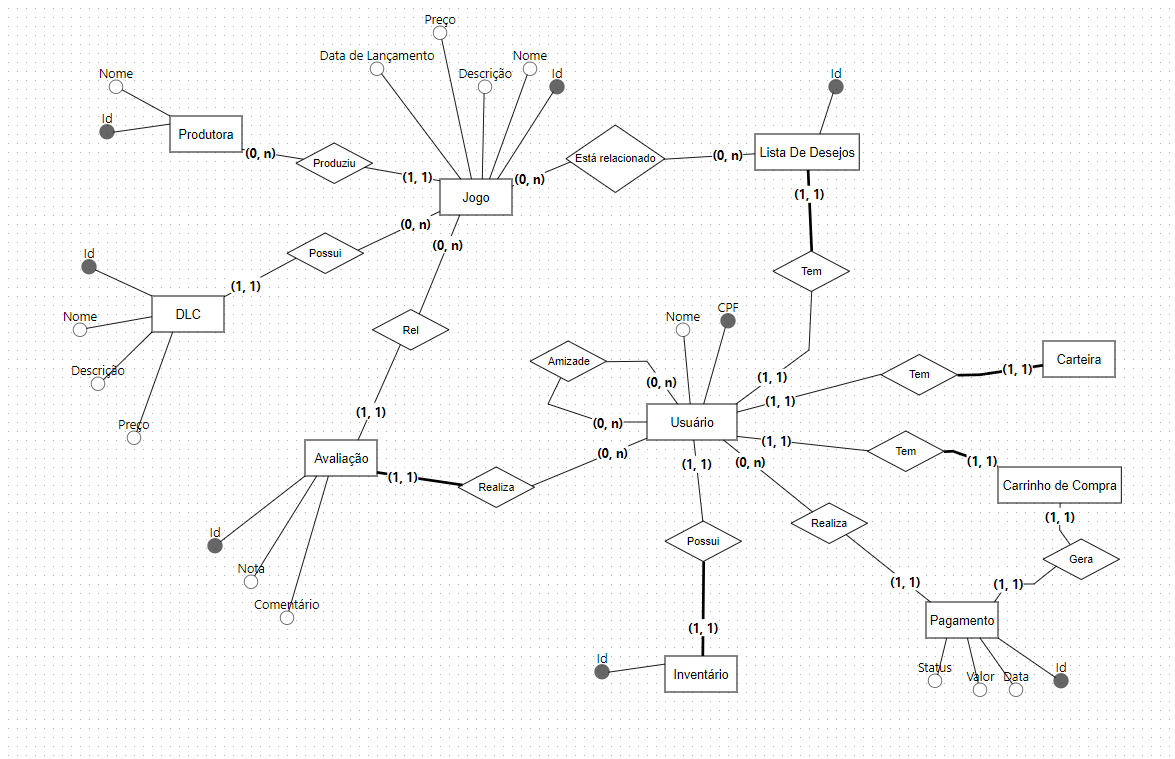
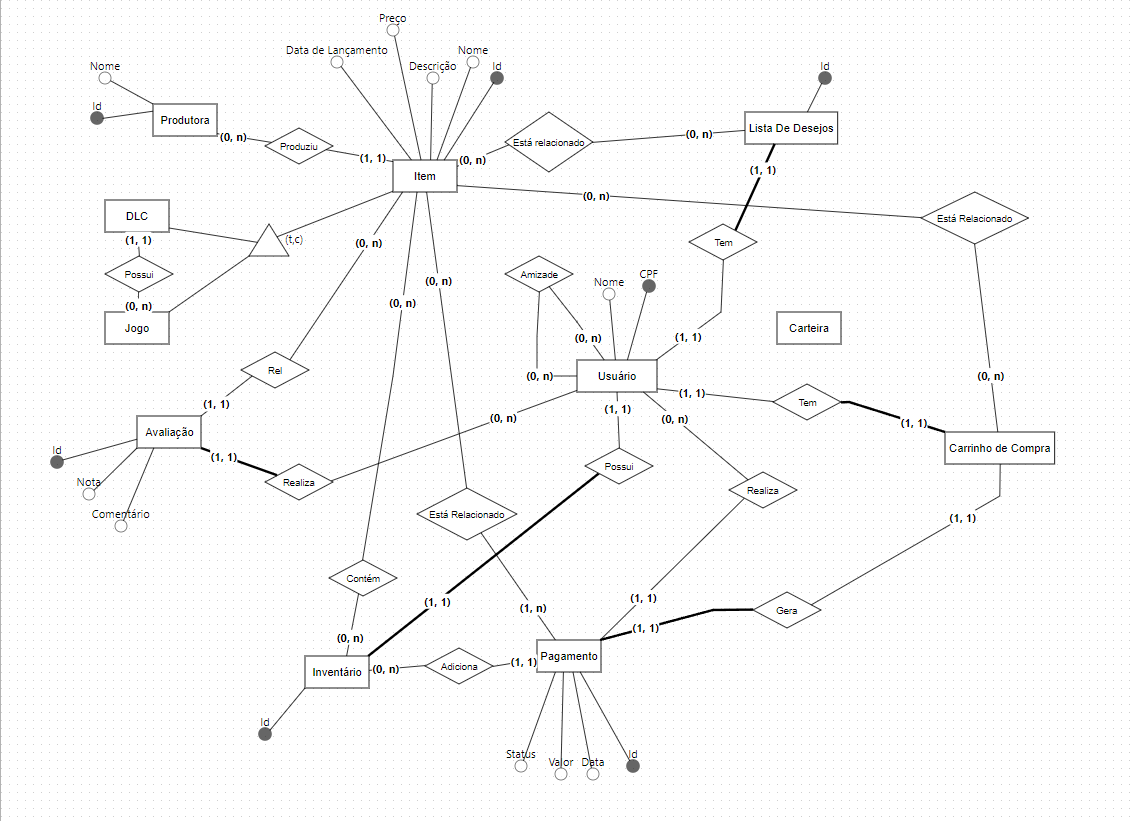
Atualização do MER

diff --git a/MER/MER.md b/MER/MER.md
@@ -1,46 +1,82 @@
-# MER
-Modelagem Entidade Relacionamento é uma forma conceitual de se modelar entidades e relacionamentos do mundo real para futura modelagem em banco de dados. O modelo aqui feito foi utilizando a ferramenta [BRModelo](https://app.brmodeloweb.com/#!/main)
+# MER - Modelagem Entidade-Relacionamento
 
-A modelagem em anexo, [MER.md](MER\MER.png), modela o sistema de loja de jogos digitais com base as entidades:
-1. Usuário.
-2. Jogo.
-3. Lista de Desejos.
-4. Carteira.
-5. Carrinho de Compra.
-6. Pagamento.
-7. Inventário.
-8. Avaliação.
-9. DLC.
-10. Produtora.
+A **Modelagem Entidade-Relacionamento (MER)** é uma forma conceitual de modelar entidades e seus relacionamentos com o mundo real, com o objetivo de facilitar a futura modelagem de banco de dados. A modelagem foi realizada utilizando a ferramenta [BRModelo](https://app.brmodeloweb.com/#!/main).
 
-E também os relacionamentos que os envolvem:
-1. Usuário $\iff$ Inventário
+A modelagem descrita abaixo modela o sistema de **loja de itens digitais** e é baseada nas seguintes entidades:
+
+1. **Usuário**
+2. **Item**
+3. **Lista de Desejos**
+4. **Carteira**
+5. **Carrinho de Compra**
+6. **Pagamento**
+7. **Inventário**
+8. **Avaliação**
+9. **DLC**
+10. **Produtora**
+
+E também os relacionamentos que as envolvem:
+
+1. **Usuário ↔ Inventário**
     - Um Usuário possui um inventário.
-    - Um inventário está relacionado com um Usuário.
-2. Usuário $\iff$ Pagamento
-    - Um usuário realiza diversos pagamentos.
-    - Um pagamento é pago por somente um Usuário.
-3. Usuário $\iff$ Carrinho de Compra
+    - Um inventário está relacionado a um Usuário.
+
+2. **Usuário ↔ Pagamento**
+    - Um Usuário pode realizar diversos pagamentos.
+    - Um pagamento é feito por um único Usuário.
+
+3. **Usuário ↔ Carrinho de Compra**
     - Um Usuário possui um Carrinho de Compra.
     - Um Carrinho de Compra está associado a um Usuário.
-4. Usuário $\iff$ Carteira 
+
+4. **Usuário ↔ Carteira**
     - Um Usuário possui uma Carteira.
     - Uma Carteira está associada a um Usuário.
-5. Usuário $\iff$ Lista de Desejos
+
+5. **Usuário ↔ Lista de Desejos**
     - Um Usuário possui uma Lista de Desejos.
-    - Um Lista de Desejos está associada a um Usuário.
-6. Lista de Desejos $\iff$ Jogo
-    - Uma Lista de Desejos está associada a 0 ou mais Jogos.
-    - Um Jogo está associadao a 0 ou mais Listas de Desejos.
-7. Jogo $\iff$ Produtora 
-    - Um Jogo é produzido por uma Produtora.
-    - Uma Produtora produziu 0 ou mais Jogos.
-8. Jogo $\iff$ DLC
-    - Um Jogo possui 0 ou mais DLC's.
-    - Uma DLC está associada a um Jogo.
-9. Avaliação $\iff$ Jogo
-    - Um Jogo possui 0 ou mais Avaliações.
-    - Uma Avaliação está associada a um Jogo.
-10. Avaliação $\iff$ Usuário
-    - Um Usuário realiza 0 ou mais Avaliações.
-    - Uma Avaliação está relacionada com um Usuário. 
+    - Uma Lista de Desejos está associada a um Usuário.
+
+6. **Lista de Desejos ↔ Item**
+    - Uma Lista de Desejos está associada a 0 ou mais Itens.
+    - Um Item pode estar associado a 0 ou mais Listas de Desejos.
+
+7. **Item ↔ Produtora**
+    - Um Item é produzido por uma Produtora.
+    - Uma Produtora pode produzir 0 ou mais Itens.
+
+8. **Avaliação ↔ Item**
+    - Um Item pode ter 0 ou mais Avaliações.
+    - Uma Avaliação está associada a um único Item.
+
+9. **Avaliação ↔ Usuário**
+    - Um Usuário pode fazer 0 ou mais Avaliações.
+    - Uma Avaliação está associada a um único Usuário.
+
+10. **Jogo ↔ DLC**
+    - Um Jogo pode ter 0 ou mais DLCs.
+    - Uma DLC está associada a um único Jogo.
+
+---
+
+## Relacionamento de Especialização:
+
+O modelo apresenta uma **especialização** entre **Item**, **Jogo** e **DLC**. Isso significa que **um Item pode ser um Jogo ou uma DLC**, reduzindo a quantidade de relacionamentos que representariam as mesmas ações. Esse relacionamento de especialização melhora a organização dos dados e elimina redundâncias no modelo.
+
+---
+
+## Entidades Fracas:
+
+O modelo também inclui **entidades fracas**, que são representadas por linhas duplas. Essas entidades não fazem sentido sem a entidade principal que as define. No caso deste modelo, temos 5 entidades fracas:
+
+1. **Inventário**
+2. **Pagamento**
+3. **Carrinho de Compra**
+4. **Lista de Desejos**
+5. **Avaliação**
+
+Essas entidades são fracas em relação ao **Usuário**, pois sua identificação depende da existência de um Usuário. Ou seja, o **Inventário**, **Carrinho de Compra**, **Avaliação** e **Lista de Desejos** não teriam sentido sem o **Usuário** que as define. Da mesma forma, o **Pagamento** é gerado por um **Carrinho de Compra**, que o define.
+
+---
+
+Esse modelo representa de forma clara as entidades e os relacionamentos de um sistema de loja de itens digitais, com as considerações sobre especialização e entidades fracas que são essenciais para a organização dos dados no banco de dados.
